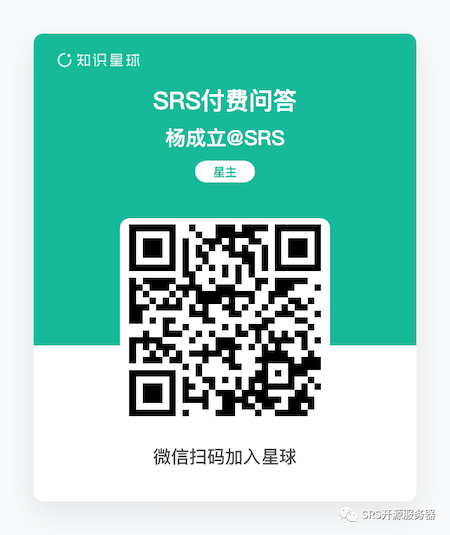
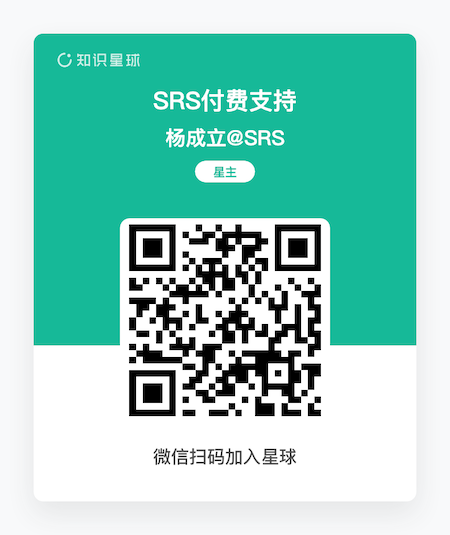
Update get support.

Changed region(s): [[0.28, 0.4187, 0.7156, 0.7776], [0.5289, 0.1495, 0.6533, 0.2093], [0.8089, 0.957, 0.9644, 0.9869]]

diff --git a/src/pages/index.js b/src/pages/index.js
@@ -21,6 +21,9 @@ function HomepageHeader() {
         <div className={styles.buttons}>
           <Link className="button button--secondary button--lg" to="/docs/v4/doc/getting-started">
             {translate({id: 'homepage.getStarted'})}
+          </Link> &nbsp;
+          <Link className="button button--secondary button--lg" to="/contact#donation">
+            {translate({id: 'homepage.getSupport'})}
           </Link>
         </div>
       </div>

diff --git a/src/pages/contact.md b/src/pages/contact.md
@@ -5,11 +5,19 @@ SRS has a community of thousands of developers.
 On this page we've listed some SRS-related communities that you can be a part of; see the other pages in this section for additional online and in-person learning materials.
 
 ## Donation
-Now SRS has donation [via OpenCollective](https://opencollective.com/srs-server/contribute/backer-34941/checkout?interval=month&amount=5)
+
+Hello, I'm very glad that you had SRS working well for your business, I'm sure that SRS will help you to do business well.
+
+As you know, live streaming or WebRTC is not easy to maintain, you might get a variety of problem, so would you like more support from community? Welcome to become our backer/sponsor to get more support from us.
+
+For example, we work part time about 60 minutes per day, for the whole community. But about 30% or 20 minutes is dedicated support for our backer/sponsor.
+
+Please follow [this link](https://opencollective.com/srs-server/contribute/backer-34941/checkout?interval=month&amount=5) to become backer/sponsor of SRS, via OpenCollective.
 
 Thank you for your contribution to SRS - it really makes a difference!
 
 ## Discussion
+
 For global developers:
 
 * Discord: [![](https://badgen.net/discord/members/yZ4BnPmHAd)](https://discord.gg/yZ4BnPmHAd)
@@ -22,9 +30,11 @@ Rarelly used:
 * [#general on Slack](https://join.slack.com/t/srs-server/shared_invite/zt-1689trxqu-_xSz~53_MgHJap_rxJiqRA)
 
 ## Stack Overflow
+
 Stack Overflow is a popular forum to ask code-level questions or if you're stuck with a specific error. Read through the [existing questions](https://stackoverflow.com/questions/tagged/simple-realtime-server) tagged with *simple-rtmp-server* or [ask your own](https://stackoverflow.com/questions/ask?tags=simple-realtime-server)!
 
 ## Issue requests
+
 Never file an issue unless read [the FAQ](/faq).
 
 and read the following articles：
